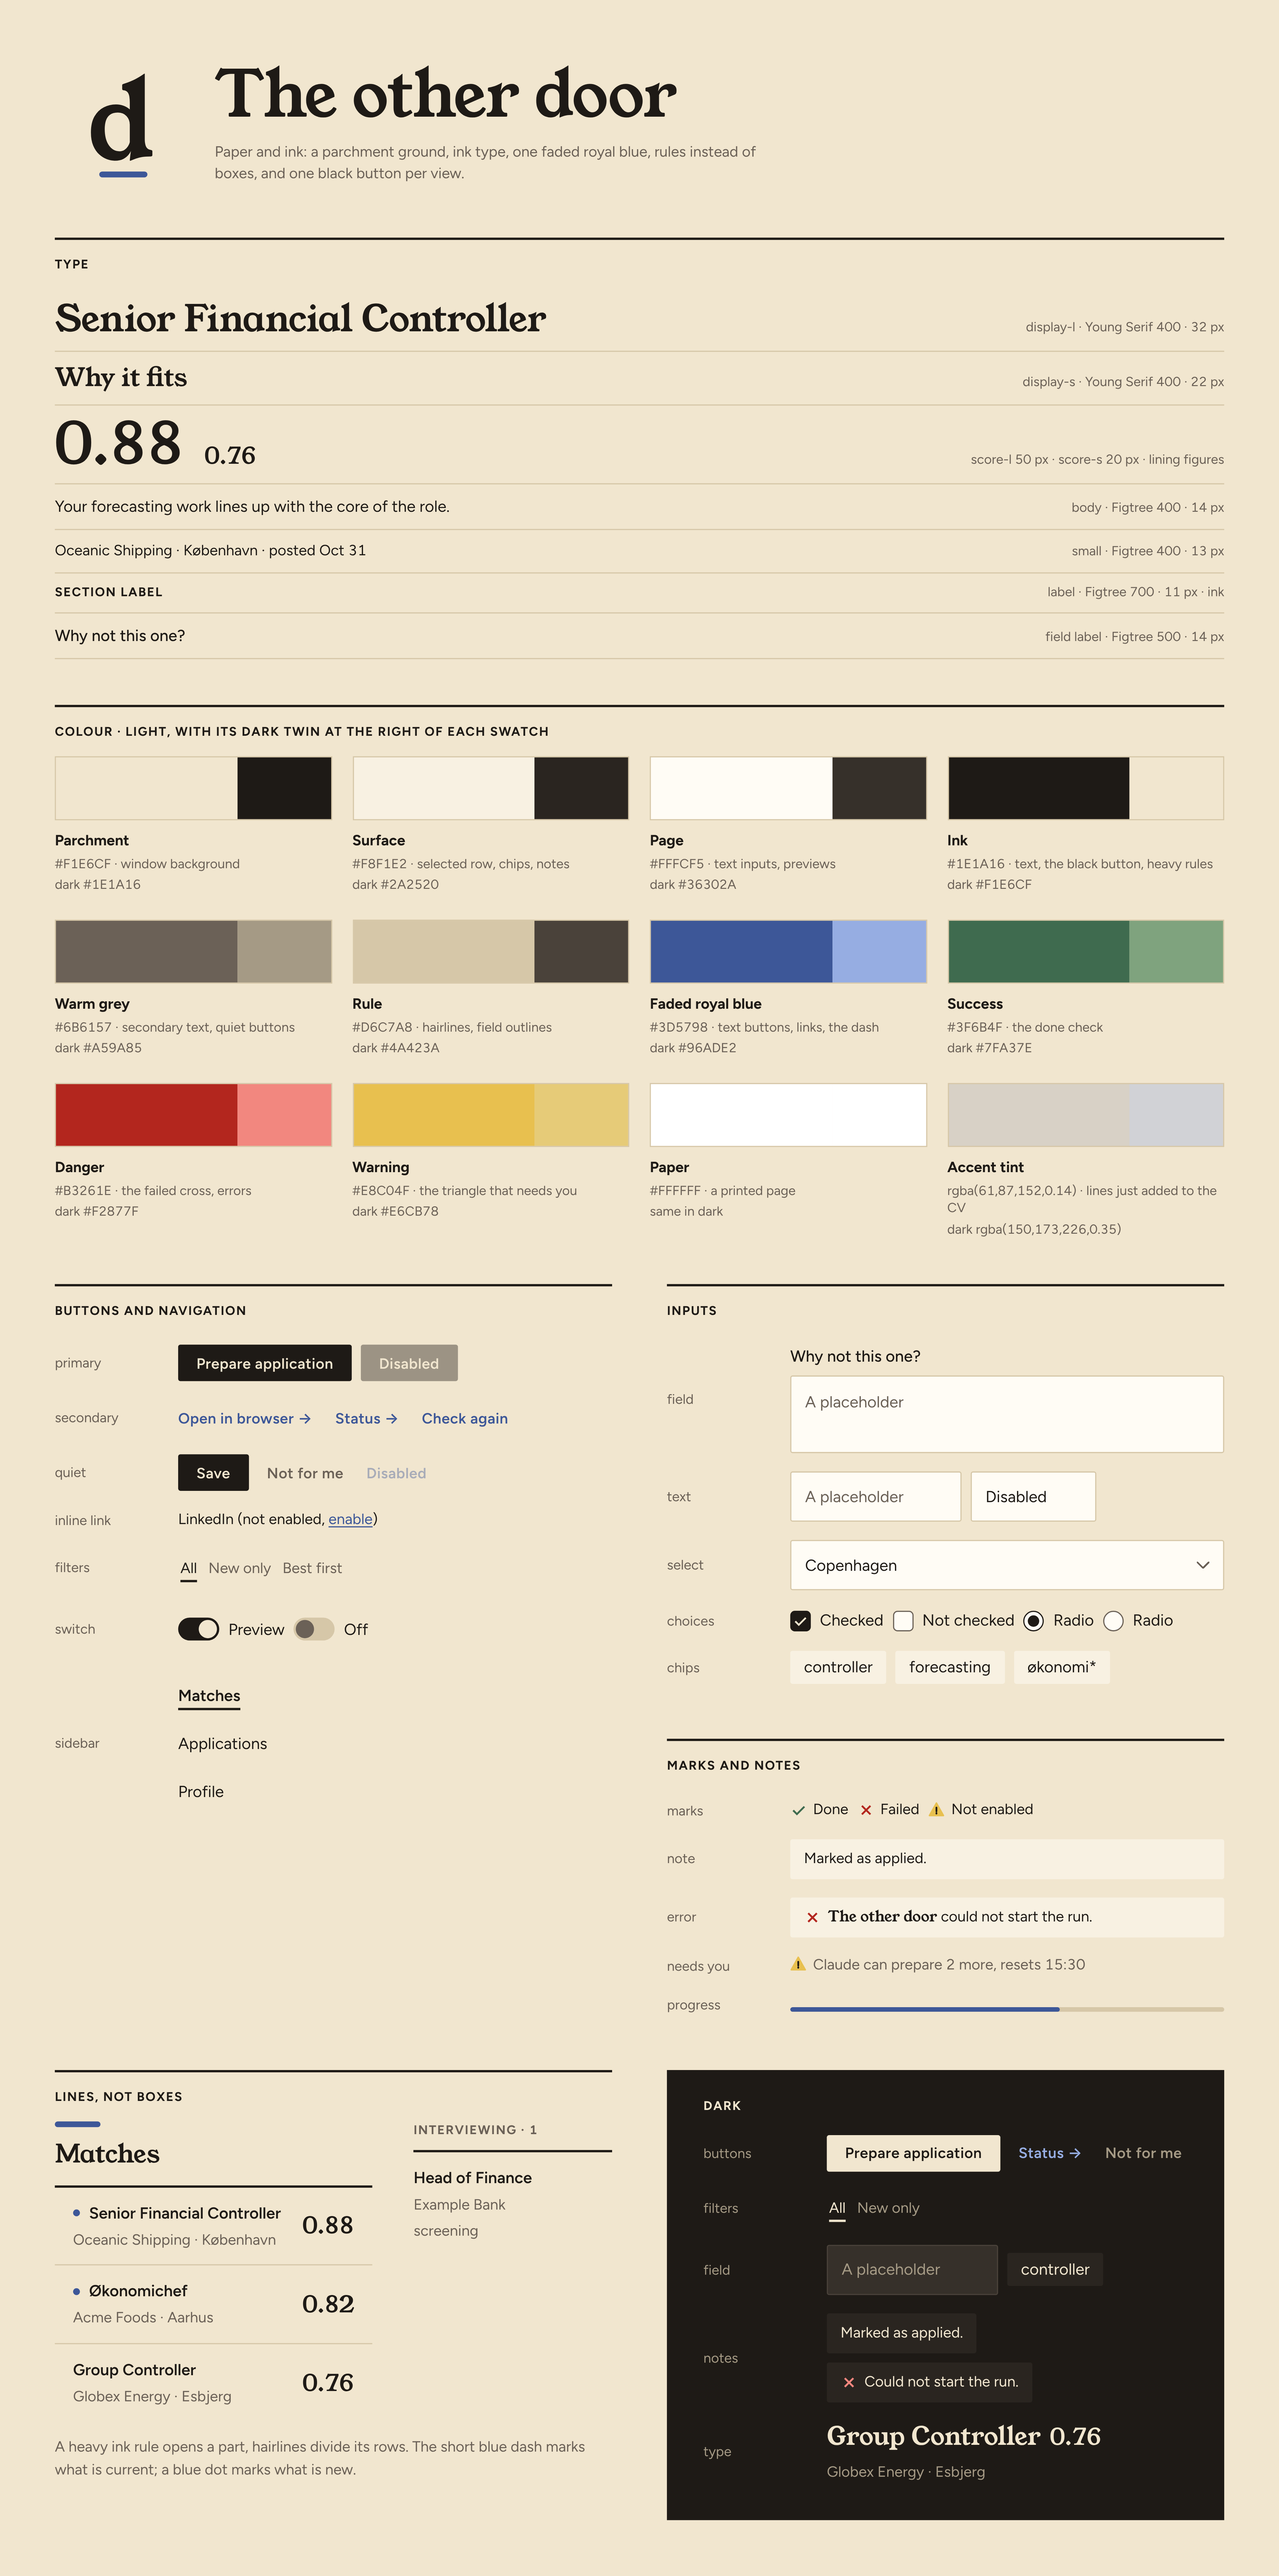
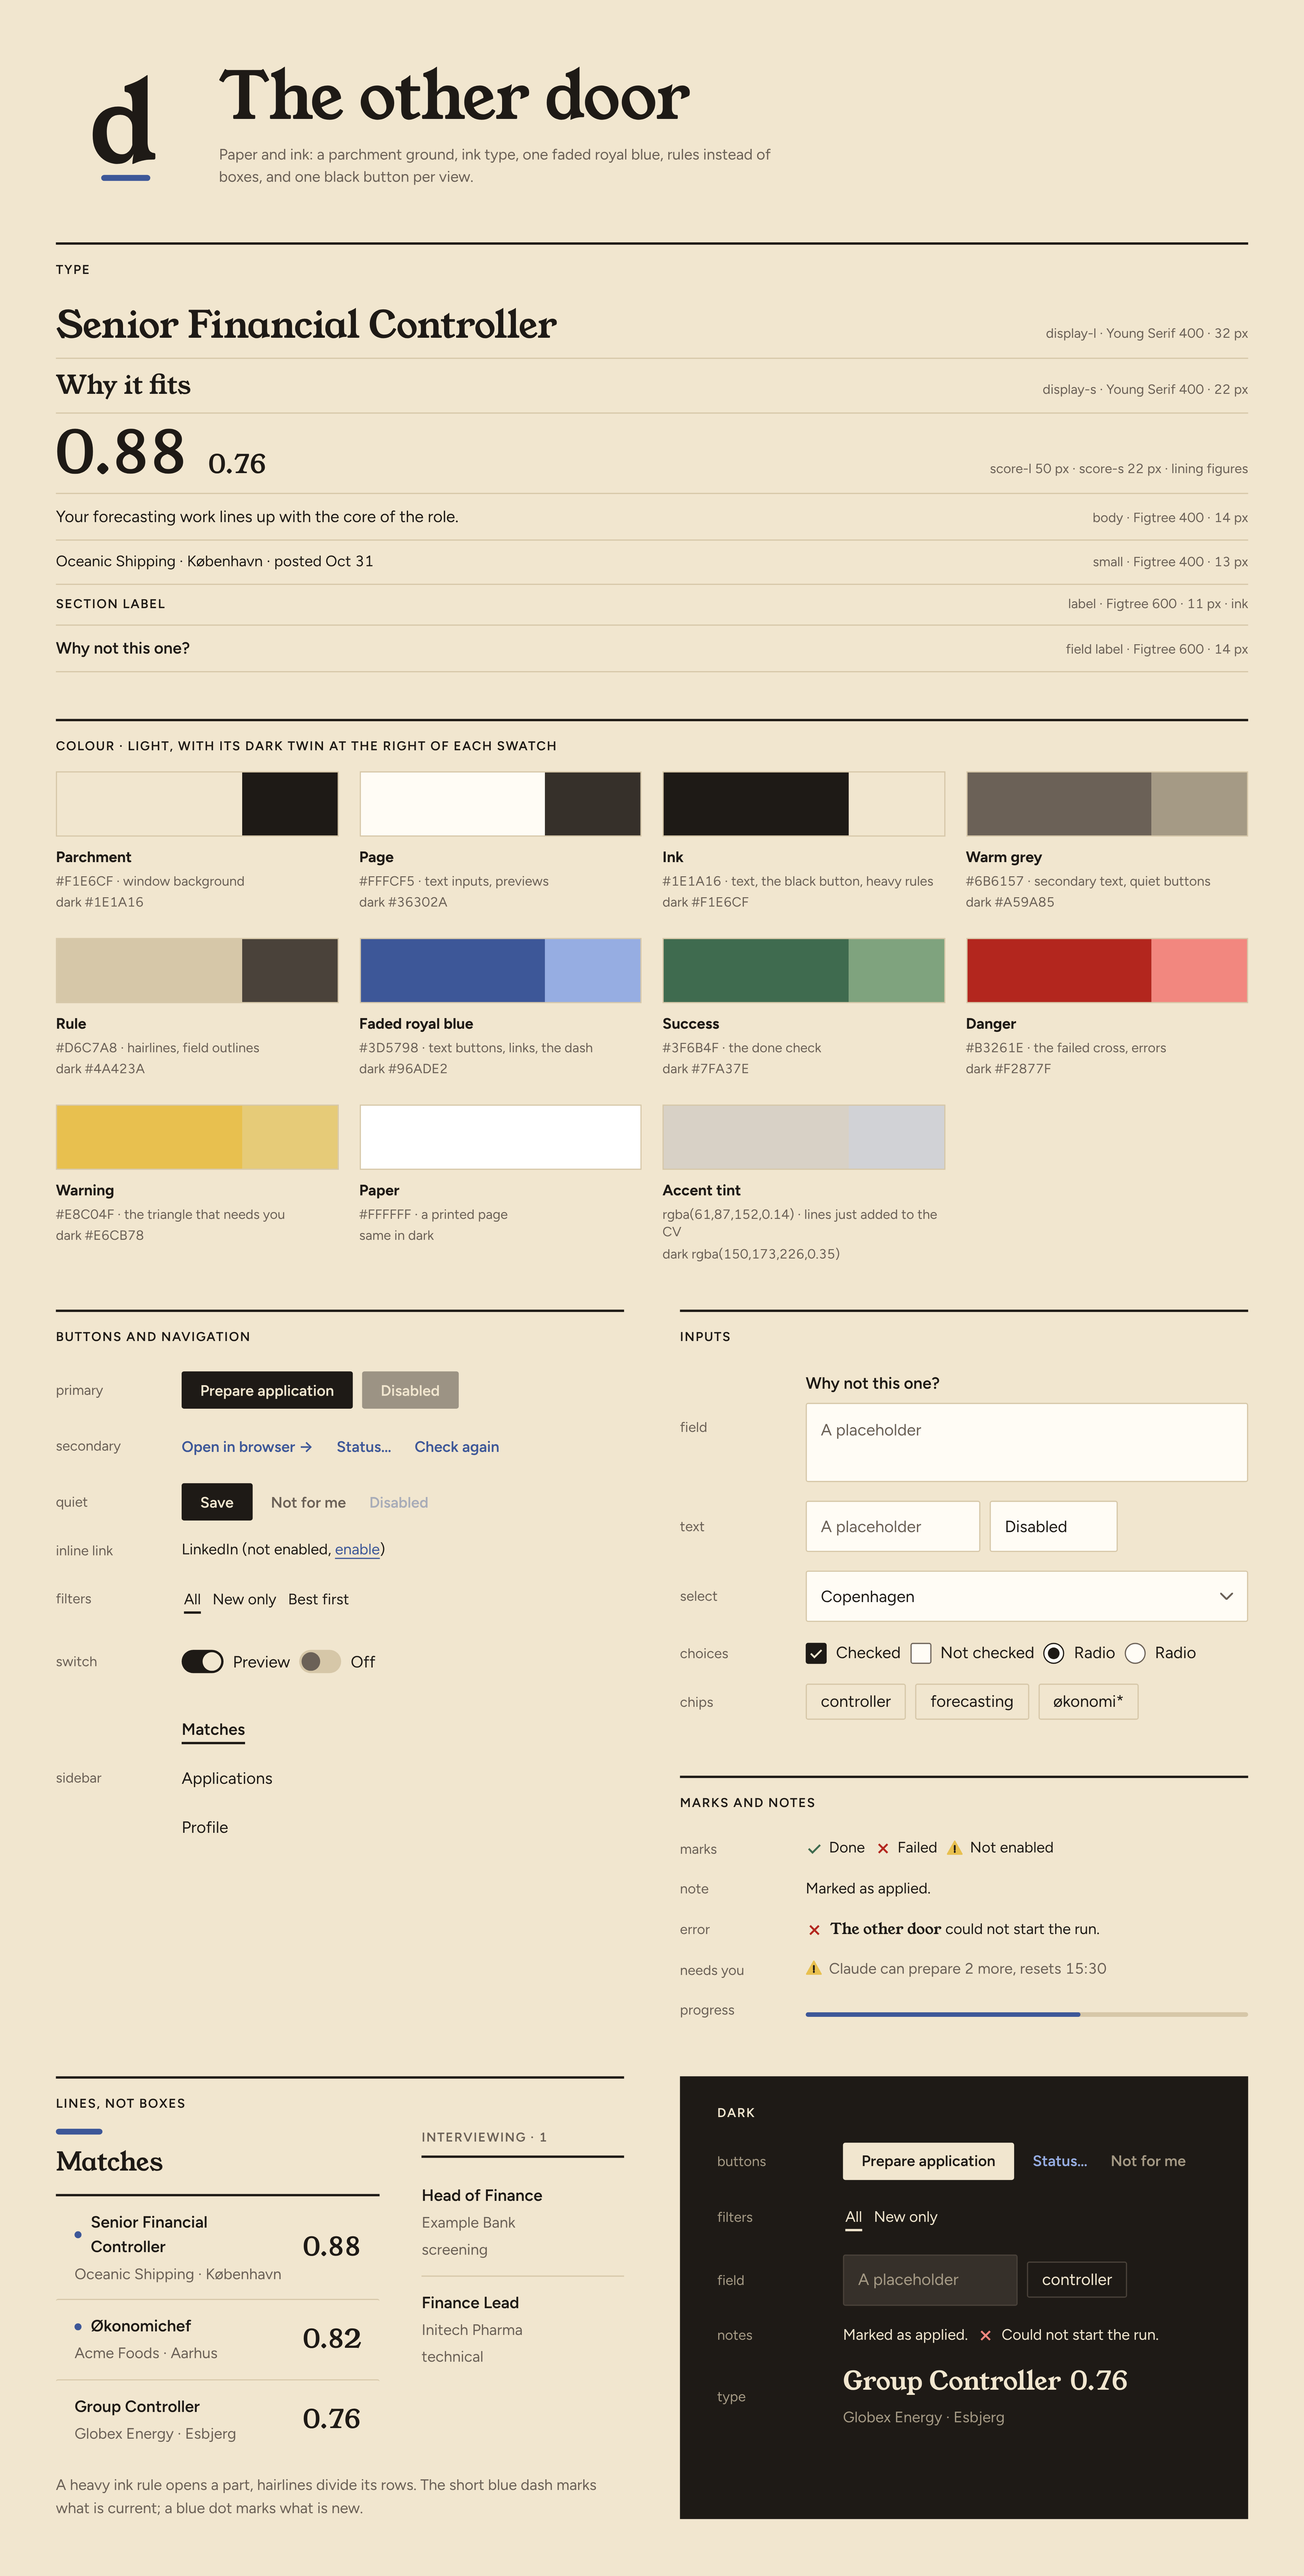
Design: the next style after an independent review
docs/design/next-style-review.md lists what the review found and what
was chosen: one mark for "opens something" (the arrow leaves the app,
an ellipsis opens a dialog), only the weights the app loads, ink for
unchosen filters, a black button that stays black on hover, one way to
show what is current, the heavy rule on the board's column instead of
every card, notes and errors as plain lines, chips with a hairline,
and fewer near-duplicate colours, radii and sizes.

style-guide-next.png shows those changes. Nothing is in the app yet.

Claude-Session: https://claude.ai/code/session_01X7AZRJmbXV9ZNnZ5yp7fGB

diff --git a/docs/design/next-style-review.md b/docs/design/next-style-review.md
@@ -1,0 +1,52 @@
+# Next style: review and changes
+
+An independent review of the next style (`style-guide-next.png`), run on 2026-11-22, looked for what can be
+removed, merged or simplified. Each finding below was checked against the code; the chosen change is what
+`style-guide-next.png` now shows. Nothing here is in the app yet.
+
+Decisions taken before the review, not reopened: the parchment ground, Young Serif and Figtree, the switch,
+the original logo, no underline on quiet buttons, the faded blue `#3D5798` as the accent.
+
+## Changes
+
+1. **One mark for "this opens something".** The arrow (`.go`) and a trailing `…` did the same job. Now:
+   the arrow only for an action that leaves the app (Open in browser, Download, the sign-in page); `…` for an
+   action that opens a dialog (Status…, Add a job…, Edit…); nothing for an action done in place.
+2. **Only the weights the app loads.** The label was set in Figtree 700, which is not bundled, so the browser
+   faked it. Labels go back to 600, and the field name moves from 500 to 600: two weights in all, 400 and 600.
+3. **Quiet buttons and filters tell apart.** Both were grey words. Unchosen filters are now ink; grey words
+   mean only a quiet action.
+4. **The black button stays black on hover.** It turned blue, against the rule that blue is never a button
+   fill. It turns `ink-muted`, as before.
+5. **One way to show what is current.** It was shown five ways (underline, fill, dash, side bar, blue block).
+   Now: an underline for a chosen word (the sidebar, filters, the page list beside Profile and Settings), and
+   the blue dash above for the open row and the screen's title. The selected row loses its fill.
+6. **Heavy rule on the column, not on every card.** The Applications board puts the heavy ink rule under the
+   column's head and hairlines between its cards, as the phone layout already does.
+7. **Notes, errors and chips stay visible.** Without an outline their fill was 1.1:1 on the ground, almost
+   invisible. Notes and errors become plain lines with their mark (a note in ink, an error after the red ✕),
+   like "needs you"; chips keep a hairline outline and no fill.
+8. **Fewer near-duplicates.**
+   - `surface` folds into `page` (once notes, chips and rows lose their fill, little else uses it).
+   - `paper-muted` (one use) becomes `border`; `on-warning` and `paper-ink` (1.09:1 apart) become one dark ink.
+   - One corner radius, 2 px, besides the round ends of bars, the dash and the switch.
+   - `score-s` (20) merges into `display-s` (22): list scores take the heading size.
+   - `button-height` and `chip-height` (both 32) become one token; the phone's 30/44 overrides of 32/50 go.
+   - Two underline offsets (3 px under links and text buttons, 6 px under chosen words), and no extra
+     tracking on buttons.
+   - Unused tokens and classes go: `content-max-width`, `sidebar-breakpoint` (as a CSS variable),
+     `phone-tab-bar-icon`, `cv-panel`, `employer-head`, `employer-list`; the 620 px column used five times
+     becomes a token.
+9. **Leftover boxes and rules.** The run's summary card gets a heavy rule on top instead of an outline and a
+   shadow (the dialog keeps the only shadow); the CV preview and the demo tag lose their boxes; the old
+   outline rules of `.secondary` and `.chip` are removed, not overridden. The filter class `.pill` is renamed,
+   as it is no longer a pill.
+10. **The design README is rewritten where the next style makes it false**: radii, the 44 px controls, the
+    hover rules, the secondary's outline, the ink-filled filter, the chip's border, the note's box, the
+    selected row, and "quiet only beside a bordered button" (now: only beside the black button).
+
+## Kept as they are
+
+One black button per view; blue words for actions (5.6:1, 7.7:1 in dark); `ink-muted` (4.9:1); a box around
+text fields; success, danger and warning as marks only; the spacing scale; body 14 and small 13; the heavy
+rule with hairlines.
